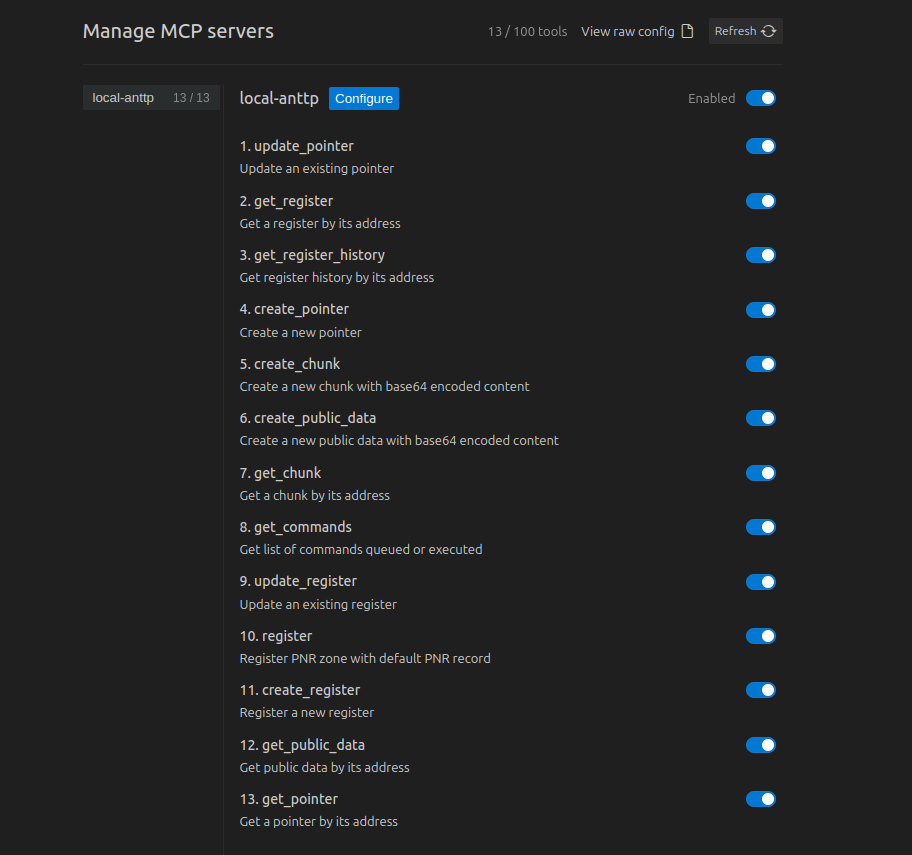
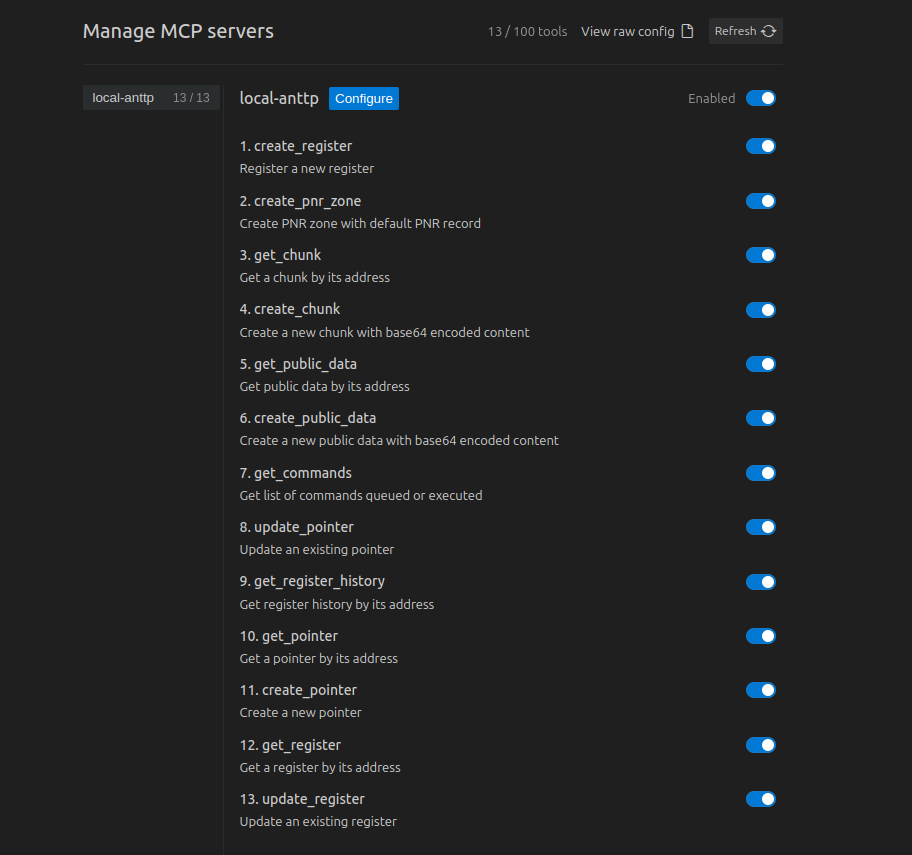
- Renames pnr tool and updates docs.

Changed region(s): [[0.2763, 0.5474, 0.5219, 0.9731], [0.2763, 0.152, 0.5833, 0.4561]]

diff --git a/src/tool/pnr_tool.rs b/src/tool/pnr_tool.rs
@@ -46,8 +46,8 @@ impl From<PnrZone> for CallToolResult {
 #[tool_router(router = pnr_tool_router, vis = "pub")]
 impl McpTool {
 
-    #[tool(description = "Register PNR zone with default PNR record")]
-    async fn register(
+    #[tool(description = "Create PNR zone with default PNR record")]
+    async fn create_pnr_zone(
         &self,
         Parameters(PnrRequest { name, address, ttl, store_type }): Parameters<PnrRequest>,
     ) -> Result<CallToolResult, ErrorData> {
